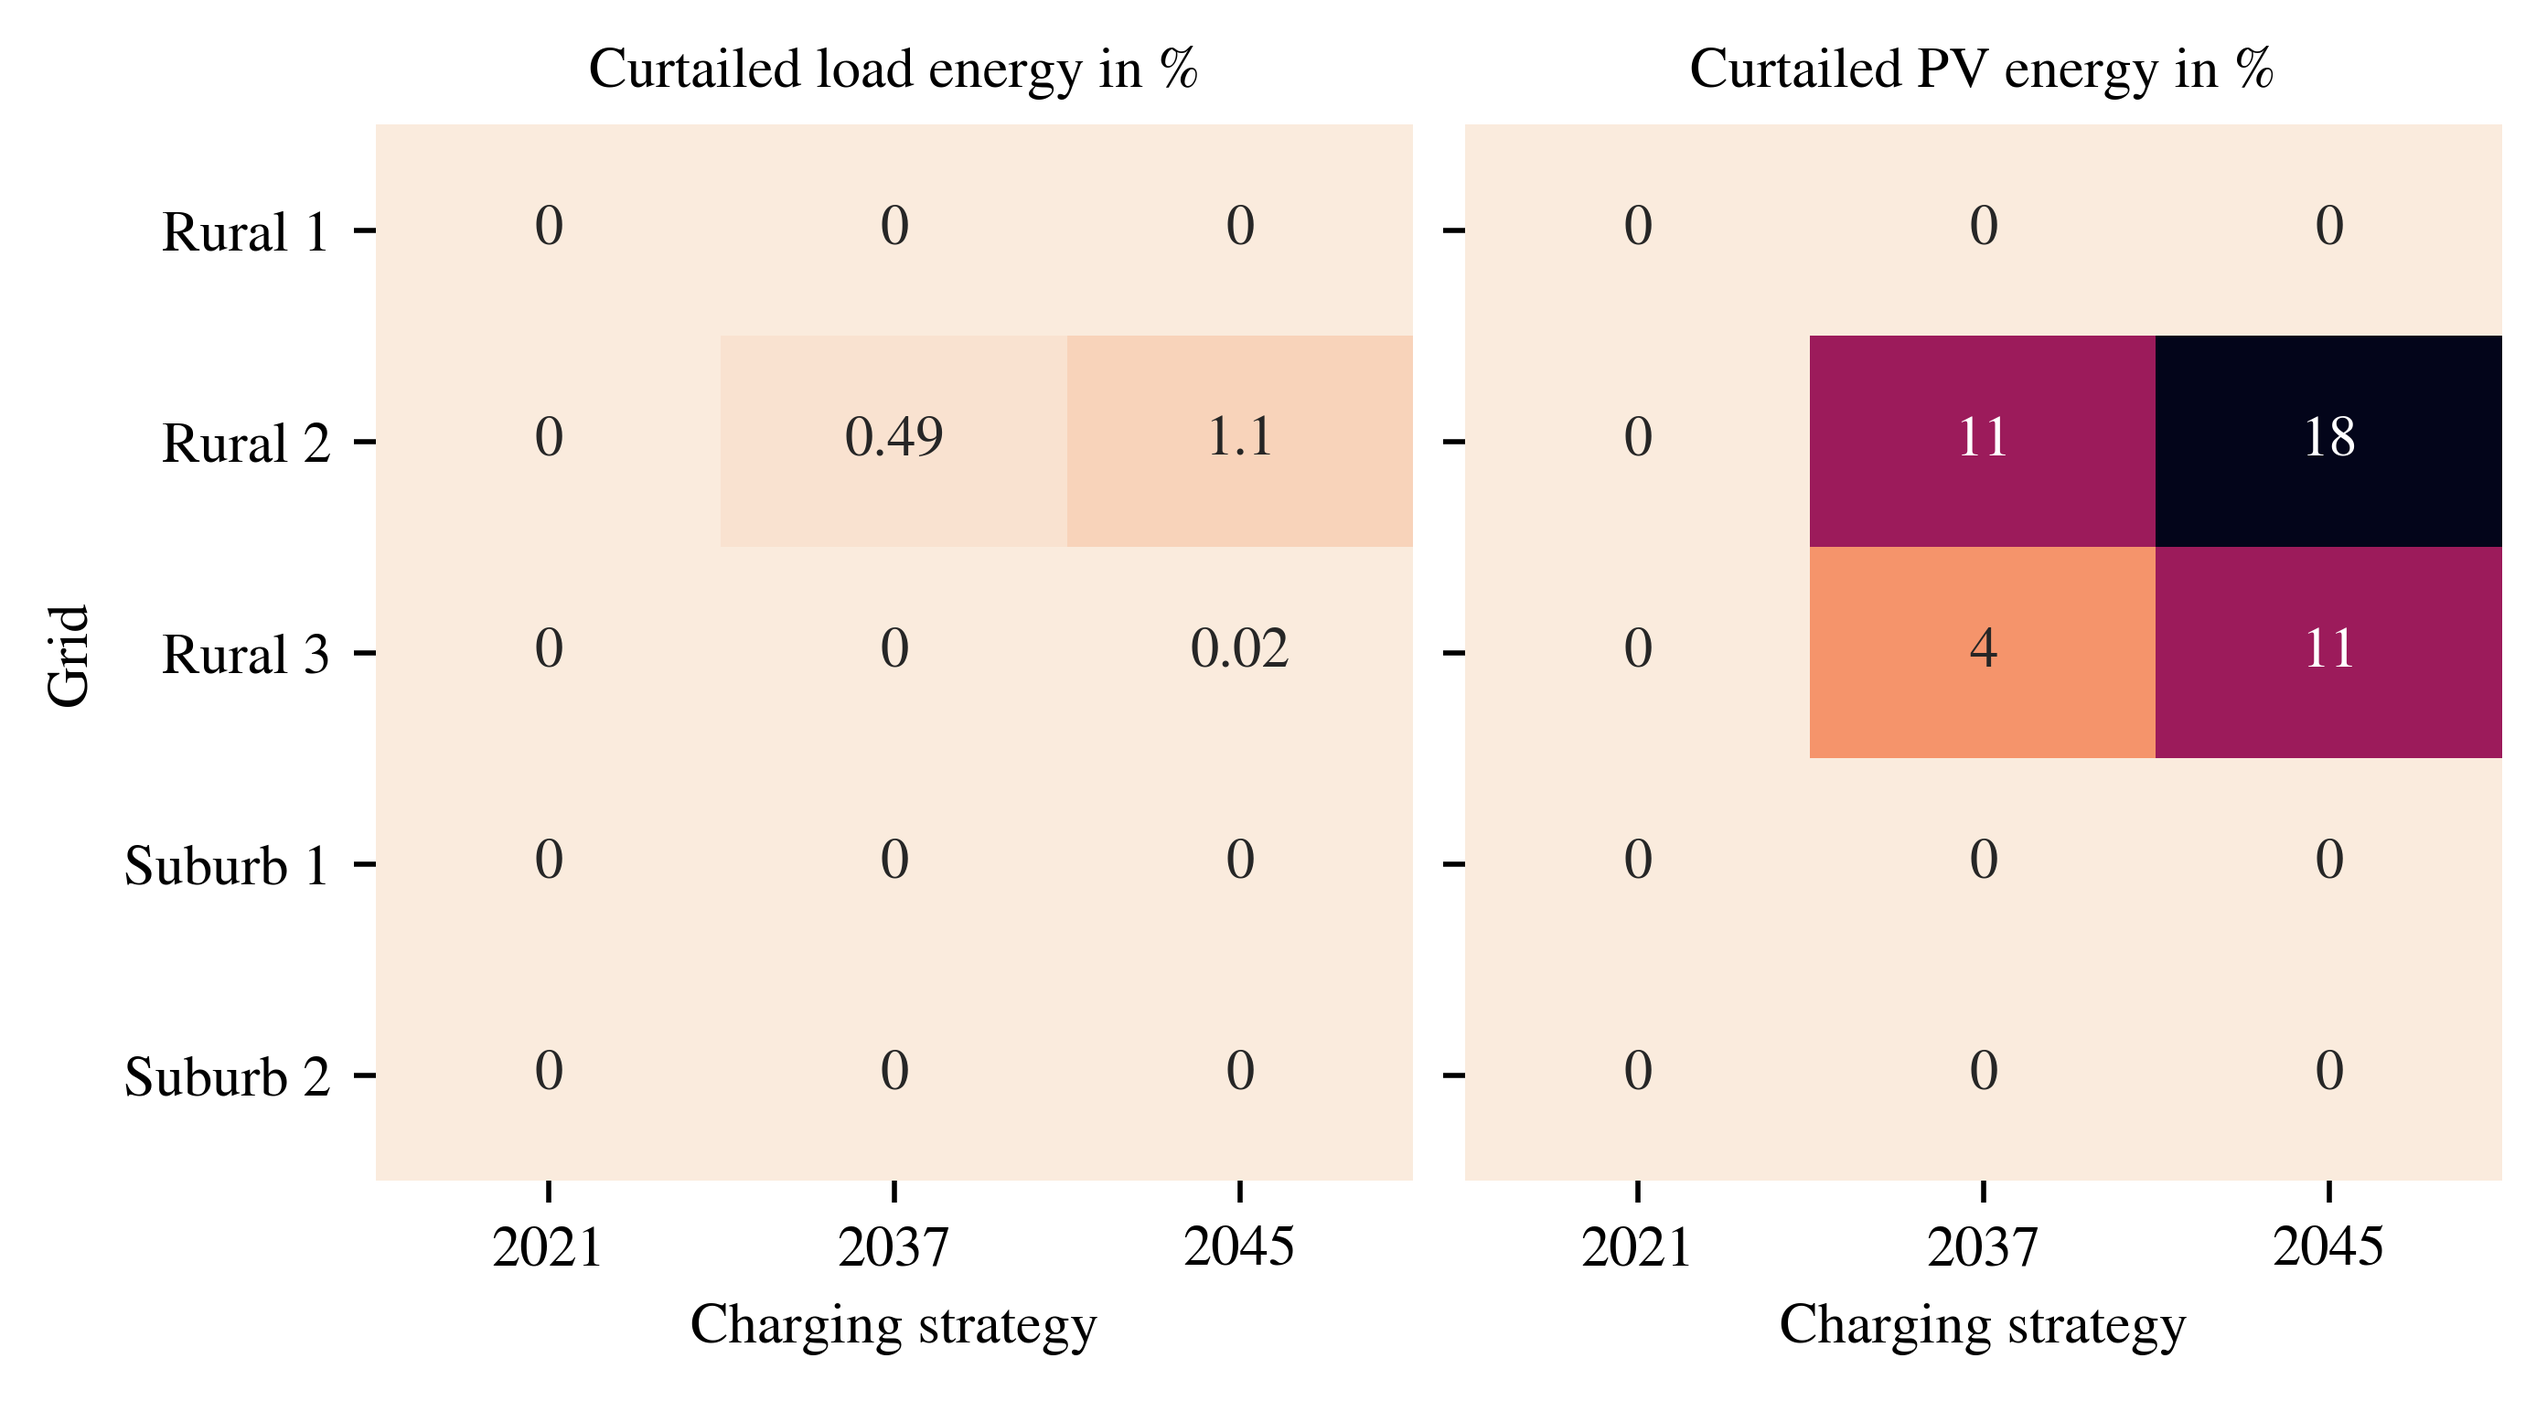
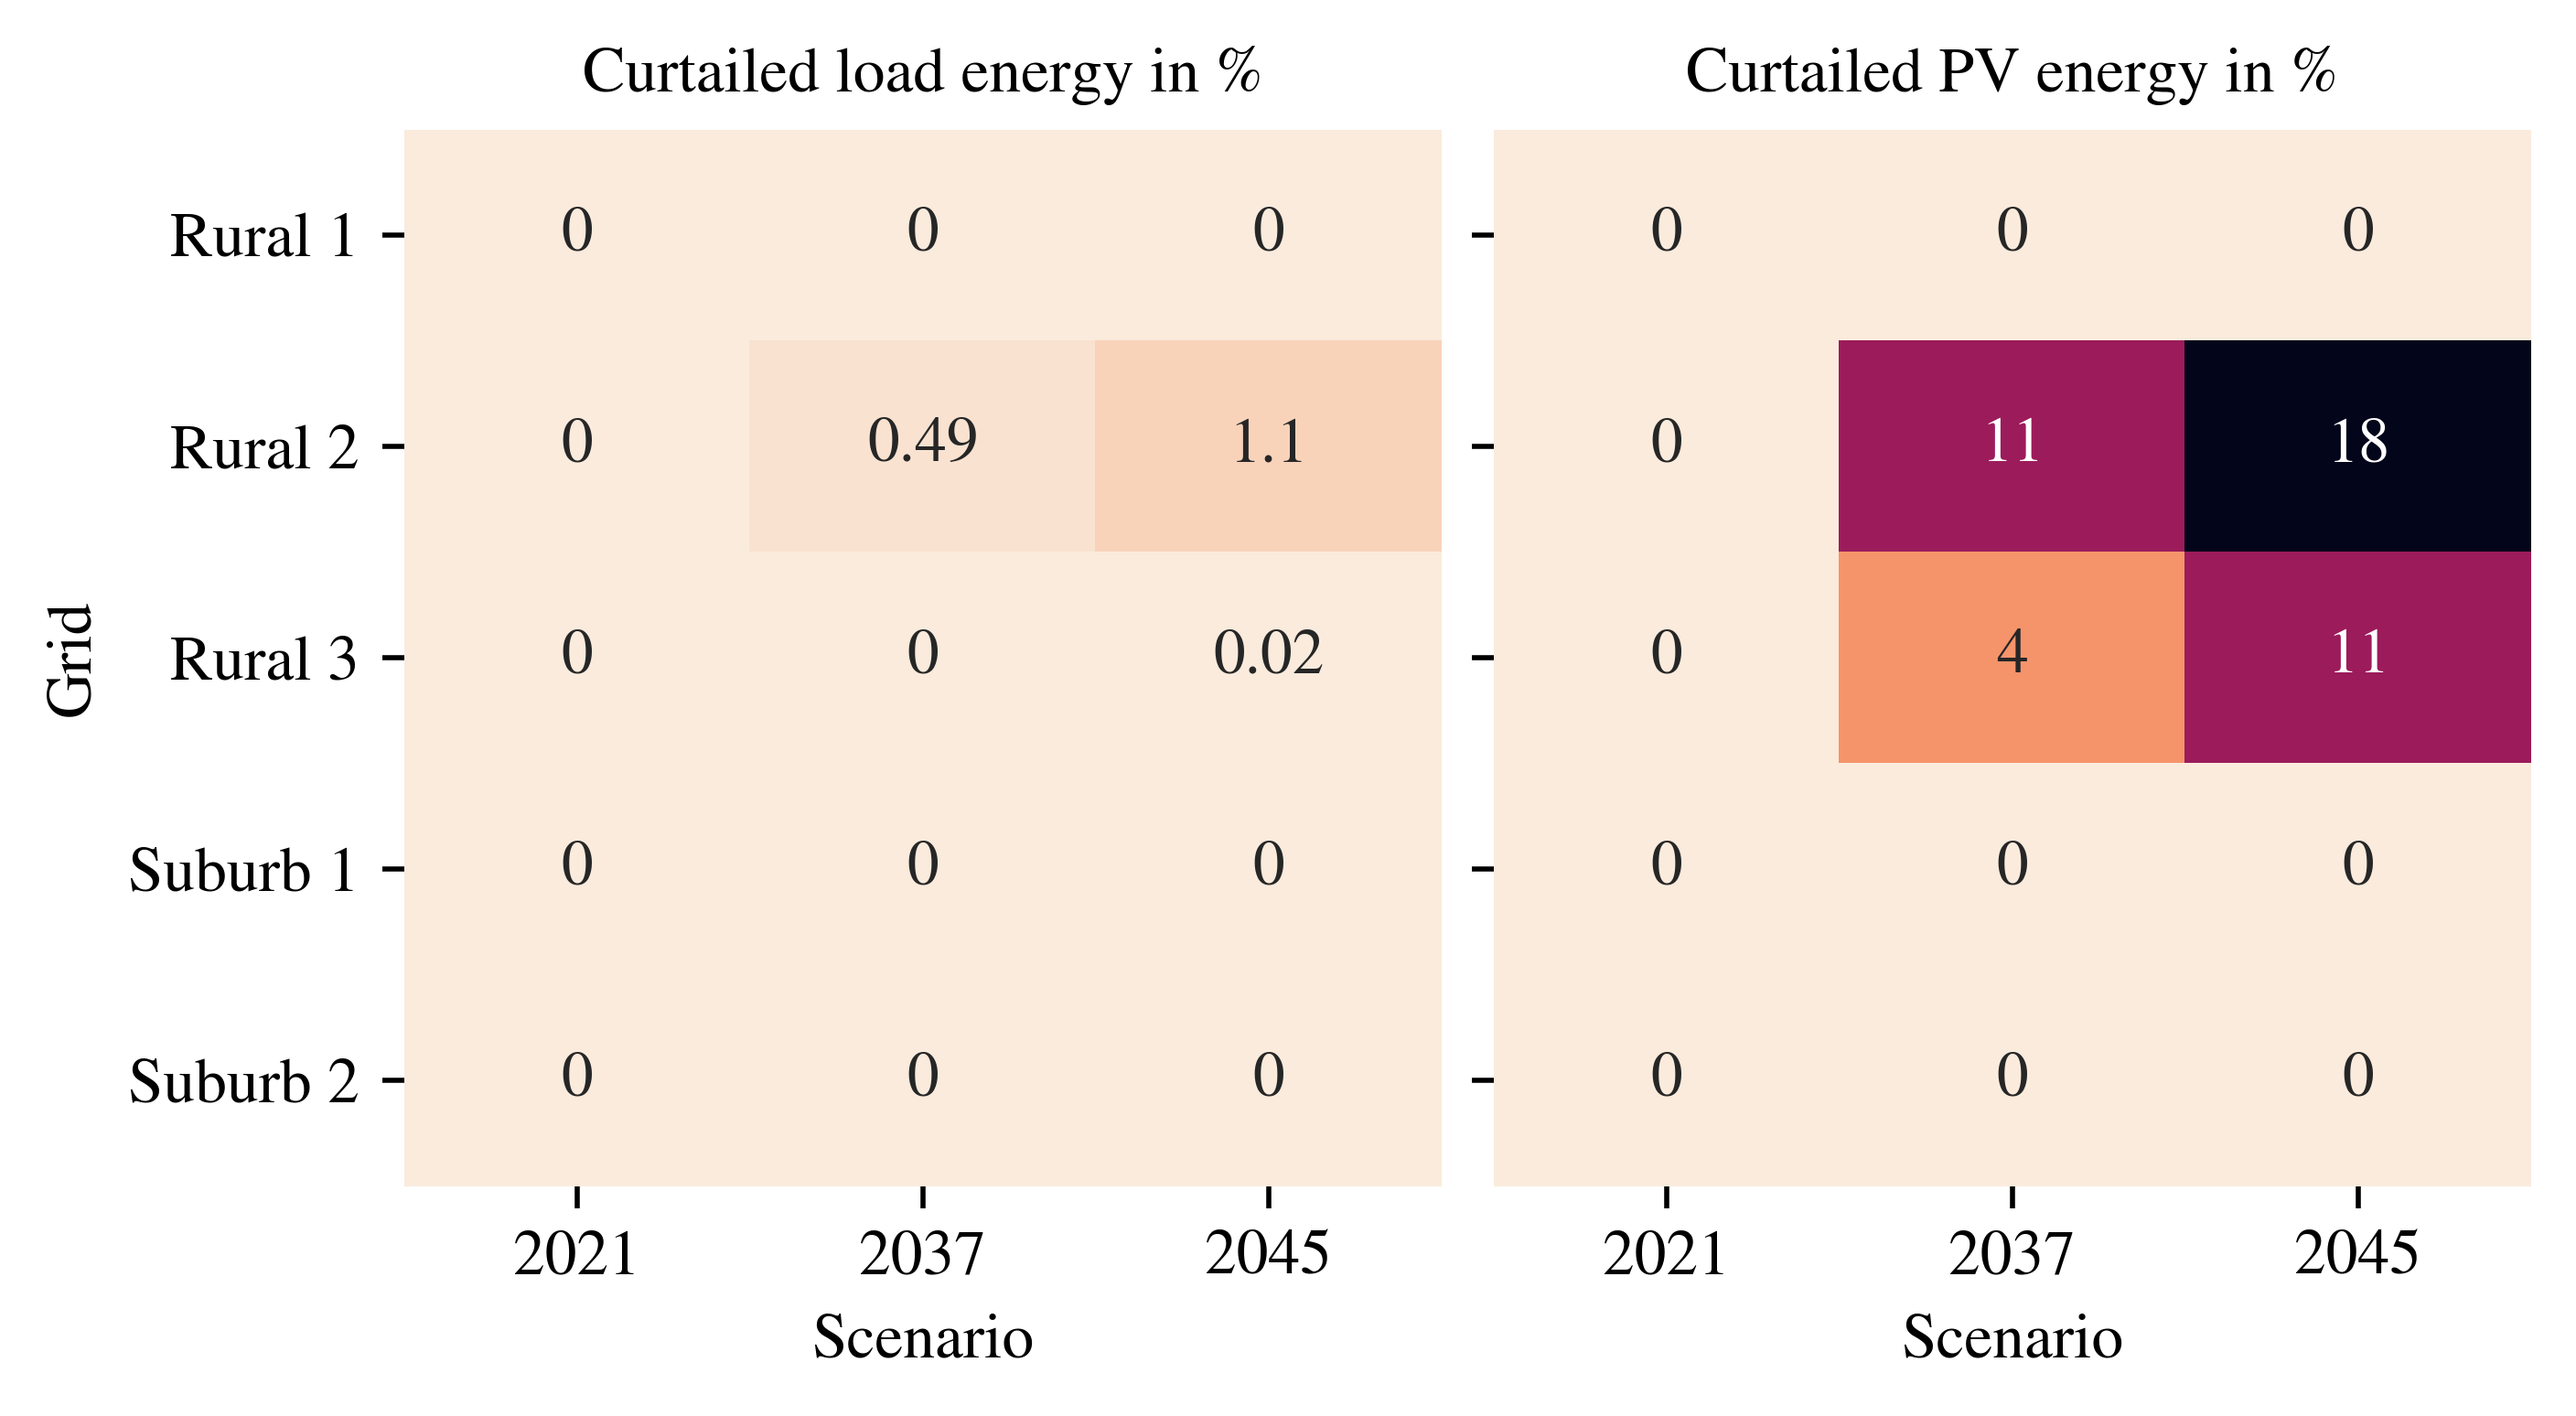
Add something

diff --git a/src/main_EVA.py b/src/main_EVA.py
@@ -110,7 +110,7 @@ evaluation.plot_grid_issus_over_time_subplot(eva1=eva['s4101110n8winter'], eva2=
 evaluation.plot_grid_issus_over_time(eva['s4101110n8summer'], save_fig_dir=save_fig_dir+ 'n8_summer_plot_grid_issus_over_time_subplot_n8_winter_full.png')
 '''
 # --- Power and Components loading --- #
-#'''
+'''
 #scenarios = ['4101110', '6111110', '6121110', '6131110']
 #scenarios = ['1000000', '4101110', '6131110', '8133310']
 scenarios = ['C111010', 'C111410', 'C111510', 'C111610', 'C131710']#, 'B111410','A111410'
@@ -123,7 +123,7 @@ evaluation.plot_residualload_grid_issues_subplot_overall_eva_4_plots(eva1=eva['s
 #evaluation.plot_residualload_grid_issues_subplot_overall_eva_4_plots(eva1=eva['sC111410n8summer'], eva2=eva['sC111510n8summer'], eva3=eva['sC111610n8summer'], eva4=eva['sC131710n8summer'], save_fig_dir=save_fig_dir+ 'res_grid_s4567_C_summer_4plots.png')
 #evaluation.plot_residualload_grid_issues_subplot_overall_eva_4_plots(eva1=eva['sC111410n8spring'], eva2=eva['sC111510n8spring'], eva3=eva['sC111610n8spring'], eva4=eva['sC131710n8spring'], save_fig_dir=save_fig_dir+ 'res_grid_s4567_C_spring_4plots.png')
 #evaluation.plot_residualload_grid_issues_subplot_overall_eva_4_plots(eva1=eva['sC111410n8autumn'], eva2=eva['sC111510n8autumn'], eva3=eva['sC111610n8autumn'], eva4=eva['sC131710n8autumn'], save_fig_dir=save_fig_dir+ 'res_grid_s4567_C_autumn_4plots.png')
-#'''
+'''
 
 
 # --- SOCs --- #
@@ -170,7 +170,7 @@ evaluation.plot_heatmap_componentloading_mean_peak(eva, net_name, columns_scenar
 '''
 
 # --- Curtailment: PV-Power and Load (Scenario - Grid) --- #
-'''
+#'''
 #scenarios = ['A111410', 'B111410','C111410', 'A111510', 'B111510','C111510', 'A111610', 'B111610','C111610', 'A111710', 'B111710','C111710']
 scenarios = ['A111410', 'B111410','C111410', 'A111510', 'B111510','C111510', 'A111610', 'B111610','C111610', 'A131710', 'B131710','C131710']
 eva = load_scenario_data(scenarios)
@@ -182,9 +182,9 @@ evaluation.plot_heatmap_curtailed_power(eva, net_name, columns_scenarios = ['A11
 #evaluation.plot_heatmap_curtailed_power(eva, net_name, columns_scenarios = ['A111410', 'A111510', 'A111610', 'A131710'], x_ticklabels = ['2022_gre', '2022_bal', '2022_mar', '2022_sch'], save_fig_dir=save_fig_dir+'A')
 #evaluation.plot_heatmap_curtailed_power(eva, net_name, columns_scenarios = ['B111410', 'B111510', 'B111610', 'B131710'], x_ticklabels = ['2037_gre', '2037_bal', '2037_mar', '2037_sch'], save_fig_dir=save_fig_dir+'B')
 #evaluation.plot_heatmap_curtailed_power(eva, net_name, columns_scenarios = ['C111410', 'C111510', 'C111610', 'C131710'], x_ticklabels = ['2045_gre', '2045_bal', '2045_mar', '2045_sch'], save_fig_dir=save_fig_dir+'C')
-evaluation.plot_heatmap_curtailed_power(eva, net_name, columns_scenarios = ['B111410', 'B111510', 'B111610', 'B131710'], x_ticklabels = ['uncontrolled', 'balanced', 'market', 'residual'], save_fig_dir=save_fig_dir+'300_B_2037_')
-evaluation.plot_heatmap_curtailed_power(eva, net_name, columns_scenarios = ['C111410', 'C111510', 'C111610', 'C131710'], x_ticklabels = ['uncontrolled', 'balanced', 'market', 'residual'], save_fig_dir=save_fig_dir+'300_C_2045_')
-'''
+#evaluation.plot_heatmap_curtailed_power(eva, net_name, columns_scenarios = ['B111410', 'B111510', 'B111610', 'B131710'], x_ticklabels = ['uncontrolled', 'balanced', 'market', 'residual'], save_fig_dir=save_fig_dir+'300_B_2037_')
+#evaluation.plot_heatmap_curtailed_power(eva, net_name, columns_scenarios = ['C111410', 'C111510', 'C111610', 'C131710'], x_ticklabels = ['uncontrolled', 'balanced', 'market', 'residual'], save_fig_dir=save_fig_dir+'300_C_2045_')
+#'''
 
 # --- Self-Sufficiancy and PV Consumption --- #
 '''

diff --git a/src/tools/evaluation/Evaluation.py b/src/tools/evaluation/Evaluation.py
@@ -1553,8 +1553,10 @@ def plot_heatmap_curtailed_power(eva, net_name, columns_scenarios, x_ticklabels,
   ax[1].set_xticklabels(x_ticklabels)
   ax[1].set_yticklabels(y_ticklabels)
   if lan == 'EN':
-    ax[0].set(xlabel='Charging strategy', ylabel='Grid')
-    ax[1].set(xlabel='Charging strategy', ylabel='')
+    #ax[0].set(xlabel='Charging strategy', ylabel='Grid')
+    #ax[1].set(xlabel='Charging strategy', ylabel='')
+    ax[0].set(xlabel='Scenario', ylabel='Grid')
+    ax[1].set(xlabel='Scenario', ylabel='')
     ax[0].set_title('Curtailed load energy in %')
     ax[1].set_title('Curtailed PV energy in %')
   elif lan == 'DE':
